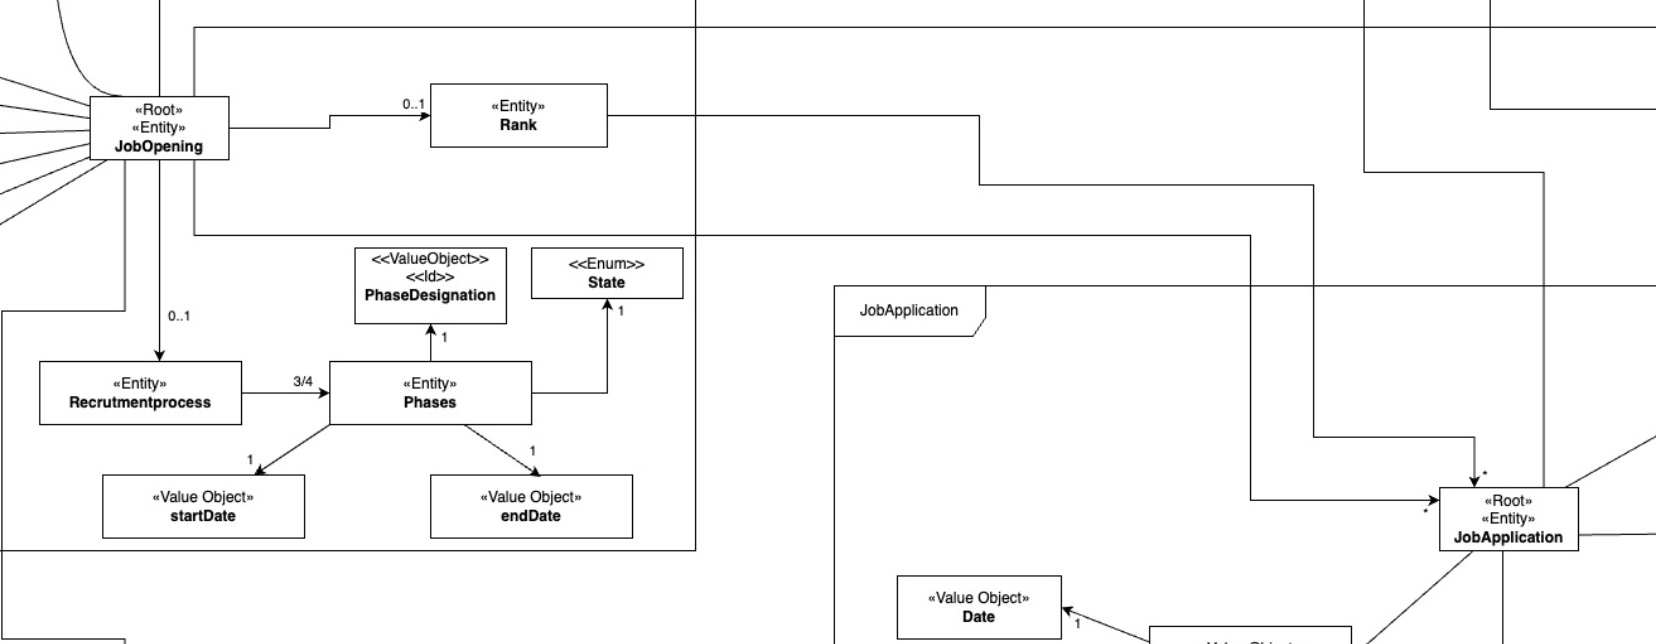
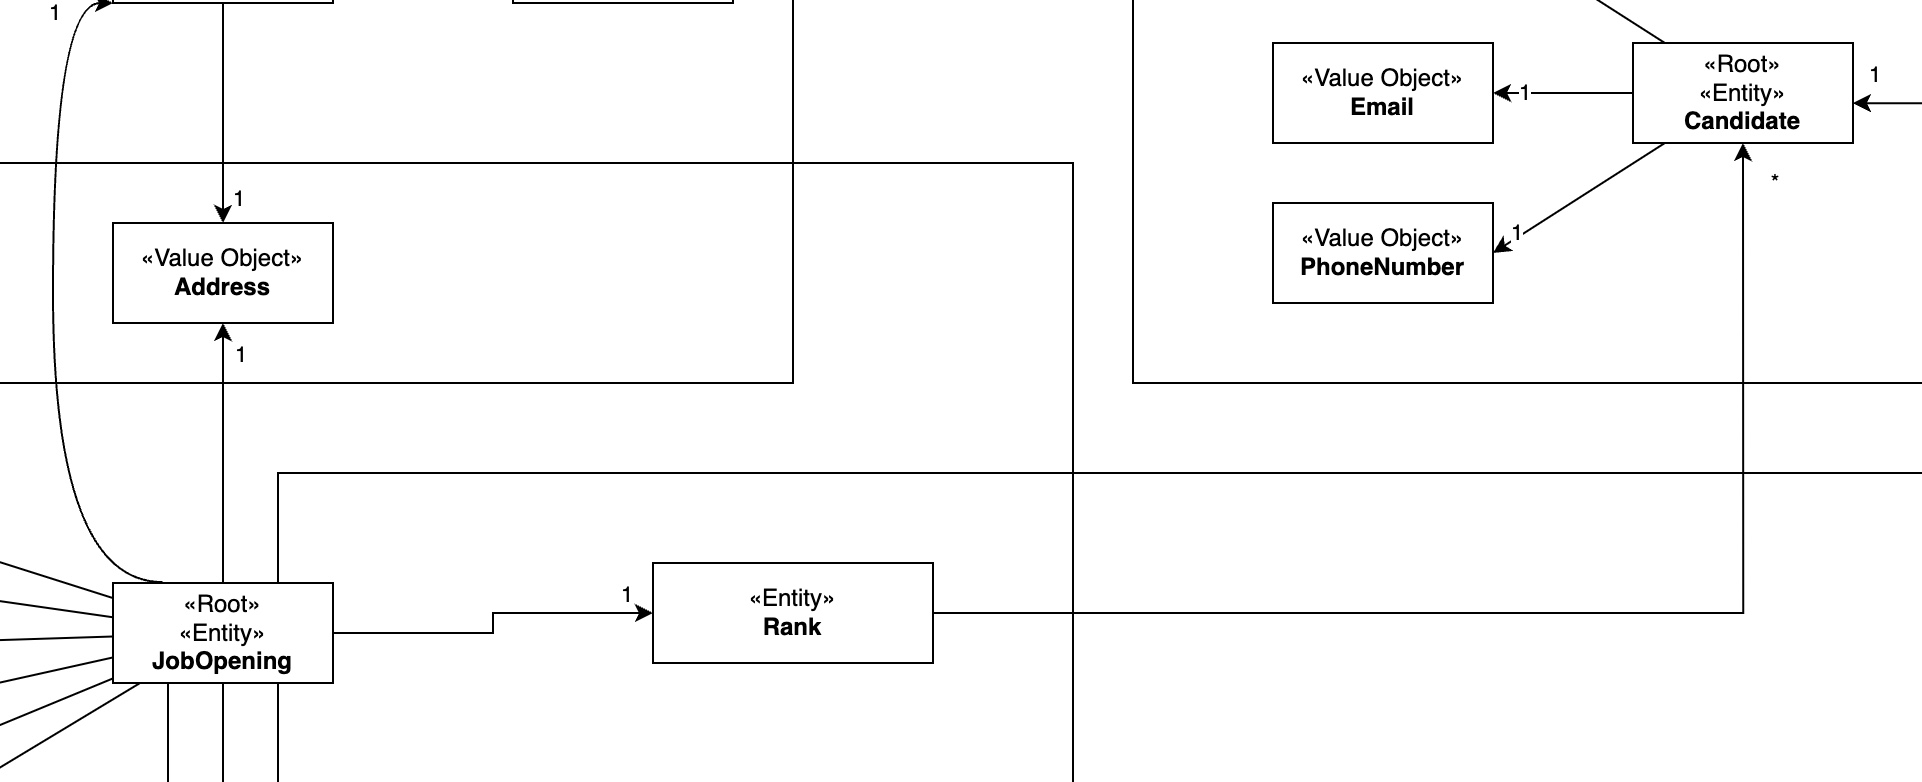
Us 1013 update in analysis (changes in domain model img and text) #35

diff --git a/docs/SprintC/us1013/readme.md b/docs/SprintC/us1013/readme.md
@@ -73,8 +73,8 @@ This approach is an idea from the client, after talking to him, he suggested tha
 
 To implement this user story some changes are needed in the domain model.
 
-- A new Entity/Value Object is needed to represent the rank of a candidate in a job opening.
-- The Rank is inside of Job Opening aggregate. Each Job Opening can have zero or one rank (The rank only exists in the Analysis phase), and each rank has zero or multiple Job Application.
+- A new Entity is needed to represent the rank of a candidate in a job opening.
+- The Rank is inside of Job Opening aggregate. Each Job Opening can have zero or one rank (The rank only exists in the Analysis phase), and each rank has zero or multiple Candidates.
 
 ![Alt text](img/domain_model.jpeg)
 
